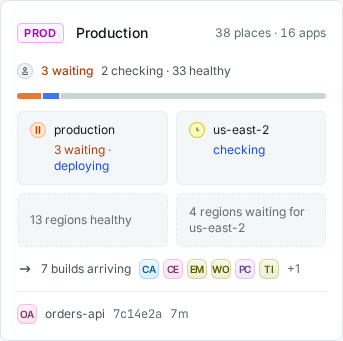
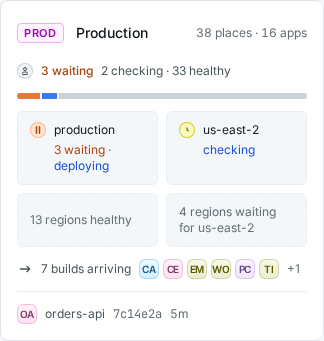
docs: recapture set A with store-initialised dark; desktop <= 630, phone 324 wide (R8-A-1, R8-DES-6, R8-B-4 alt)

diff --git a/content/docs/releases/publish.md b/content/docs/releases/publish.md
@@ -273,7 +273,7 @@ kubectl get releasesource -n hello-world hello-world -o jsonpath='{.status.newes
 
 On the dashboard's **Apps** page, the app's card names the newest build. Publishing only makes it a release: here a deployment window still holds it, so staging and production stay one build behind.
 
-![The billing-edge card on the Apps page: the newest build, 5.8.0-62, held by the Business hours deploy window, with staging and production both held one build behind](/images/docs/releases/publish-newest.png)
+![The billing-edge card on the Apps page: the newest build, 5.8.0-62, held by the Business hours deploy window, with staging and production both held](/images/docs/releases/publish-newest.png)
 
 If the tag is missing, compare it with `filterTags.pattern`: tags that do not match are not releases. If `revision` is missing, the annotations were written to the per-platform manifests instead of the image index.
 
